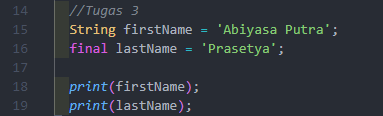
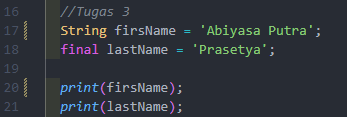
update: readme

diff --git a/bin/kuis_1_mobile.dart b/bin/kuis_1_mobile.dart
@@ -14,10 +14,10 @@ void main(List<String> arguments) {
 
   print('\n');
   //Tugas 3
-  String firstName = 'Abiyasa Putra';
+  String firsName = 'Abiyasa Putra';
   final lastName = 'Prasetya';
 
-  print(firstName);
+  print(firsName);
   print(lastName);
   print('\n');
 
@@ -52,10 +52,10 @@ void main(List<String> arguments) {
   print('\n');
 
   //Tugas 6
-  String firstName2 = 'Abiyasa';
+  String firstName = 'Abiyasa';
   String LastName = 'Putra Prasetya';
 
-  var fullName = '$firstName2 ${LastName}';
+  var fullName = '$firstName ${LastName}';
 
   print(fullName);
 

diff --git a/README.md b/README.md
@@ -36,7 +36,7 @@ Output:
 
 <img src="img/run3.png">
 
-<h4>Penjelasan: Terdapat 2 variabel, untuk yang pertama yaitu variabel firstName dengan nilai Abiyasa Putra menggunakan tipe data String Kemudian untuk variabel yang kedua yaitu variabel lastName dengan nilai Prasetya sebagai final yang artinya nilainya tidak dapat diubah lagi. Variabel ini juga memiliki tipe data String. <h4>
+<h4>Penjelasan: Terdapat 2 variabel, untuk yang pertama yaitu variabel firsName dengan nilai Abiyasa Putra menggunakan tipe data String Kemudian untuk variabel yang kedua yaitu variabel lastName dengan nilai Prasetya sebagai final yang artinya nilainya tidak dapat diubah lagi. Variabel ini juga memiliki tipe data String. <h4>
 
 # Tugas 4
 <img src="img/4.png">
@@ -78,17 +78,7 @@ Output:
 
 <img src="img/run6.png">
 
-<h4>Penjelasan: Ada beberap variabel yang menggunakan tipe data String. Untuk variabel firstName mendefinisikan nilai Abiyasa. Dan untuk variabel LastName mendefinisikan Putra Prasetya. Kemudian ada juga variabel var fullName dengan kode '$firstName ${lastName}' ini berguna untuk menggabungkan nilai dari kedua variabel tersebut. Namun outputnya error karena variabel firstName dengan menggunakan tipe data String sudah dideklarasikan sebelumnya.<h4>
-
-Perbaikan:
-
-Mengubah variabel firstName menjadi firstName2.
-
-<img src="img/ubah6.png">
-
-Output:
-
-<img src="img/runubah6.png">
+<h4>Penjelasan: Ada beberapa variabel yang menggunakan tipe data String. Untuk variabel firstName mendefinisikan nilai Abiyasa. Dan untuk variabel LastName mendefinisikan Putra Prasetya. Kemudian ada juga variabel var fullName dengan kode '$firstName ${lastName}' ini berguna untuk menggabungkan nilai dari kedua variabel tersebut. <h4>
 
 # Tugas 7
 <img src="img/7.png">
